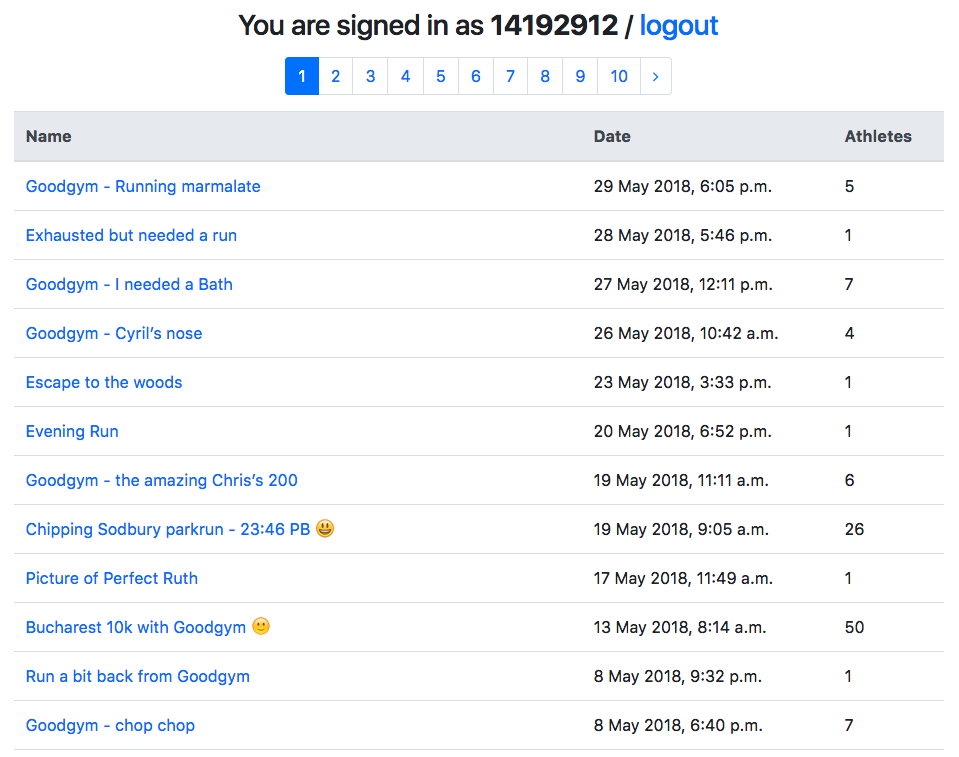
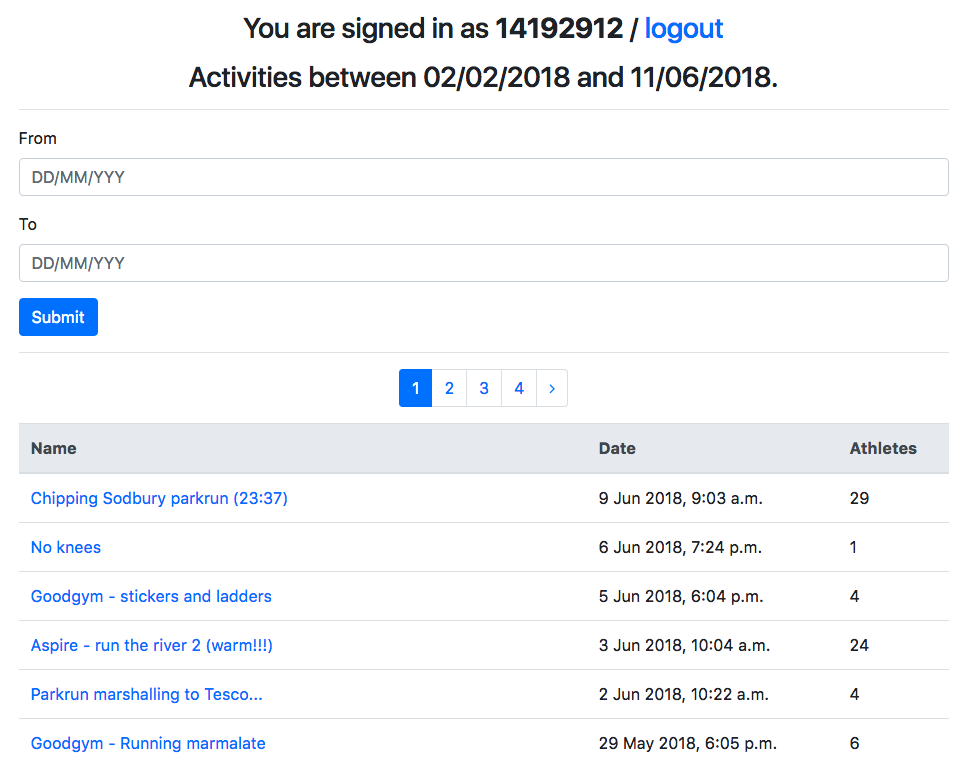
Added search by date functionality

diff --git a/core/templates/core/home.html b/core/templates/core/home.html
@@ -1,15 +1,40 @@
 {% extends 'base.html' %}
 
 {% block content %}
+{% if from_date and to_date %}
+<h3 class="text-center mt-3">Activities between {{ from_date }} and {{ to_date }}.</h3>
+{% elif from_date %}
+<h3 class="text-center mt-3">Activities from {{ from_date }}.</h3>
+{% elif to_date %}
+<h3 class="text-center mt-3">Activities to {{ to_date }}.</h3>
+{% endif %}
+<hr/>
+<div class="dates">
+    <form method="get">
+        <div class="form-group">
+            <label class="control-label" for="date">From</label>
+            <input class="form-control" id="date" name="from_date" placeholder="DD/MM/YYY" type="text" autocomplete="off"/>
+        </div>
+        <div class="form-group">
+            <label class="control-label" for="date">To</label>
+            <input class="form-control" id="date" name="to_date" placeholder="DD/MM/YYY" type="text" autocomplete="off"/>
+        </div>
+        <div class="form-group">
+            <button class="btn btn-primary " name="submit" type="submit">Submit</button>
+        </div>
+    </form>
+</div>
+<hr/>
+
 <ul class="pagination justify-content-center mt-3">
     {% if activities.has_previous %}
-    <li class="page-item"><a class="page-link" href="?page={{ activities.previous_page_number }}"><i class="fa fa-angle-left"></i></a></li>
+    <li class="page-item"><a class="page-link" href="?page={{ activities.previous_page_number }}&from_date={{ from_date }}&to_date={{ to_date }}"><i class="fa fa-angle-left"></i></a></li>
     {% endif %}
     {% for page_num in activities.paginator.page_range %}
-    <li {% if page_num == activities.number %}class="active page-item"{% endif %}><a class="page-link" href="?page={{ page_num }}">{{ page_num }}</a></li>
+    <li {% if page_num == activities.number %}class="active page-item"{% endif %}><a class="page-link" href="?page={{ page_num }}&from_date={{ from_date }}&to_date={{ to_date }}">{{ page_num }}</a></li>
     {% endfor %}
     {% if activities.has_next %}
-    <li class="page-item"><a class="page-link" href="?page={{ activities.next_page_number }}"><i class="fa fa-angle-right"></i></a></li>
+    <li class="page-item"><a class="page-link" href="?page={{ activities.next_page_number }}&from_date={{ from_date }}&to_date={{ to_date }}"><i class="fa fa-angle-right"></i></a></li>
     {% endif%}
 </ul>
 <table class="table">

diff --git a/stravasearch/templates/base.html b/stravasearch/templates/base.html
@@ -4,6 +4,24 @@
   <title>Strava activities for athlete</title>
   <script src="https://use.fontawesome.com/73fb701cc7.js"></script>
   <link rel="stylesheet" href="https://stackpath.bootstrapcdn.com/bootstrap/4.1.0/css/bootstrap.min.css" integrity="sha384-9gVQ4dYFwwWSjIDZnLEWnxCjeSWFphJiwGPXr1jddIhOegiu1FwO5qRGvFXOdJZ4" crossorigin="anonymous">
+
+  <script src="https://cdnjs.cloudflare.com/ajax/libs/jquery/3.3.1/jquery.min.js"></script>
+  <script src="https://cdnjs.cloudflare.com/ajax/libs/bootstrap-datepicker/1.8.0/js/bootstrap-datepicker.js"></script>
+  <link rel="stylesheet" href="https://cdnjs.cloudflare.com/ajax/libs/bootstrap-datepicker/1.8.0/css/bootstrap-datepicker.css">
+
+  <script>
+    $(document).ready(function(){
+      var date_input=$('input[id="date"]'); //our date input has the name "date"
+      var container=$('.dates form').length>0 ? $('.dates form').parent() : "body";
+      var options={
+        format: 'dd/mm/yyyy',
+        startDate: "1/1/1990",
+        todayHighlight: true,
+        autoclose: true,
+      };
+      date_input.datepicker(options);
+    })
+  </script>
 </head>
 <body>
   <div class="container">

diff --git a/core/views.py b/core/views.py
@@ -11,38 +11,68 @@ from stravalib.client import Client
 
 from django.core.paginator import Paginator, EmptyPage, PageNotAnInteger
 
+from datetime import datetime
+
 @login_required
 def home(request):
 
-    page = request.GET.get('page')
+    from_date = request.GET.get('from_date')
+    to_date = request.GET.get('to_date')
 
-    # get access token
-    social = request.user.social_auth.get(provider='strava')
-    token = social.extra_data['access_token']
-
-    # get activity details
-    client = Client()
-    client.access_token = token
     activities = []
-    for activity in client.get_activities(after="2010-01-01T00:00:00Z"):
-        activities.insert(0, 
-            { 
-                "id": activity.id,
-                "name": activity.name,
-                "link": "https://www.strava.com/activities/{}".format(activity.id),
-                "date": activity.start_date_local,
-                "athlete_count": activity.athlete_count,
-            }
-        )
+      
+    if from_date or to_date:
+        if from_date:
+            from_datetime = datetime.strptime(from_date + " 00:00:00", "%d/%m/%Y %H:%M:%S")
+        if to_date:
+            to_datetime = datetime.strptime(to_date + " 23:59:59", "%d/%m/%Y %H:%M:%S")
 
-    paginator = Paginator(activities, 20) # Show n results per page
-    try:
-        activities = paginator.page(page)
-    except PageNotAnInteger:
-        # If page is not an integer, deliver first page.
-        activities = paginator.page(1)
-    except EmptyPage:
-        # If page is out of range (e.g. 9999), deliver last page of results.
-        activities = paginator.page(paginator.num_pages)
+        page = request.GET.get('page')
 
-    return render(request, 'core/home.html', context={'activities': activities})
+        # get access token
+        social = request.user.social_auth.get(provider='strava')
+        token = social.extra_data['access_token']
+
+        # get activity details
+        client = Client()
+        client.access_token = token
+
+        if from_date and to_date:
+            query = client.get_activities(before=to_datetime, after=from_datetime)
+        elif from_date: 
+            query = client.get_activities(after=from_datetime)
+        else: # to_date
+            query = client.get_activities(before=to_datetime)
+
+        for activity in query:
+            if from_date and not to_date:
+                index = 0
+            else:
+                index = len(activities)
+
+            activities.insert(index,
+                { 
+                    "id": activity.id,
+                    "name": activity.name,
+                    "link": "https://www.strava.com/activities/{}".format(activity.id),
+                    "date": activity.start_date_local,
+                    "athlete_count": activity.athlete_count,
+                }
+            )
+
+        paginator = Paginator(activities, 20) # Show n results per page
+        try:
+            activities = paginator.page(page)
+        except PageNotAnInteger:
+            # If page is not an integer, deliver first page.
+            activities = paginator.page(1)
+        except EmptyPage:
+            # If page is out of range (e.g. 9999), deliver last page of results.
+            activities = paginator.page(paginator.num_pages)
+
+    return render(request, 'core/home.html', 
+                            context={
+                                'activities': activities,
+                                'from_date': from_date,
+                                'to_date': to_date,
+                            })

diff --git a/README.md b/README.md
@@ -1,6 +1,8 @@
 # README
 
-Get activities from Strava for an athlete. Uses [social-auth-app-django](https://github.com/python-social-auth/social-app-django) to authenticate a user then [stravalib](https://github.com/hozn/stravalib) to retrieve the activities for that user. Activities are displayed on the page with pagination.
+Get activities from Strava for an athlete. Uses [social-auth-app-django](https://github.com/python-social-auth/social-app-django) to authenticate a user then [stravalib](https://github.com/hozn/stravalib) to retrieve the activities for that user. Activities are displayed on the page with pagination. 
+
+The first time you visit the site there are no activities shown. If you just specifiy a From date then activities after that date are retrieved. If you just specify a To date then activities up until that date are retrieved. If you specify both you get activities in that range of dates. If you specify neither then nothing is retrieved.
 
 ![Alt text](site.png?raw=true "site")
 
